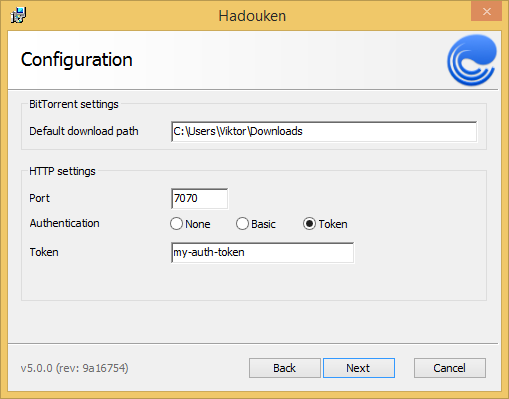
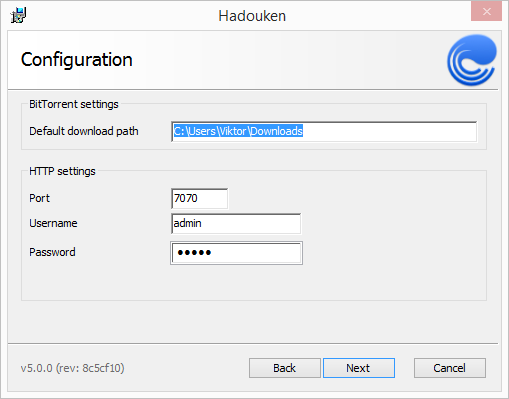
Updated documentation.

diff --git a/docs/src/configuration.rst b/docs/src/configuration.rst
@@ -5,13 +5,17 @@ Configuring Hadouken
 Overview
 --------
 
-Hadouken is configured by editing the :file:`config.json` file. JSON is a
+Hadouken is configured by editing the :file:`hadouken.json` file. JSON is a
 simple structured format and is easily hand-edited using your favourite
 text editor.
 
 See the list below for where your configuration file is.
 
-* Windows: :file:`C:/ProgramData/Hadouken/hadouken.json`
+* Windows (installed): :file:`C:/ProgramData/Hadouken/hadouken.json`
+* Windows (command line): :file:`%CWD%/hadouken.json`
+
+.. note:: Before making changes, stop Hadouken. Otherwise, Hadouken will
+          overwrite your changes.
 
 .. warning:: The configuration examples below only shows the JSON you need to
              change in order for the setting to have effect. Hadouken *will*
@@ -34,6 +38,37 @@ In depth
 
 BitTorrent configuration
 ------------------------
+
+Port
+````
+
+By default, Hadouken will use port *6881* for BitTorrent communications.
+
+.. code:: javascript
+
+   {
+     "bittorrent":
+     {
+       "listenPort": 6881
+     }
+   }
+
+
+Activating GeoIP location
+`````````````````````````
+
+GeoIP is activated by downloading and extracting the
+`MaxMind GeoLite Country database <http://geolite.maxmind.com/download/geoip/database/GeoLiteCountry/GeoIP.dat.gz>`_.
+
+.. code:: javascript
+
+   {
+     "bittorrent":
+     {
+       "geoIpFile": "C:/Data/GeoIP.dat"
+     }
+   }
+
 
 Anonymous mode
 ``````````````
@@ -83,8 +118,8 @@ Each torrent in Hadouken can be paused or removed when it reaches the
 user-specified seed goals. If no default options are specified, the seed
 goal is set to `2.0` however no action is configured.
 
-To pause a torrent when it reaches the seed goal, use the following
-configuration.
+To pause torrents when they have been seeded 200% or for 5 hours (18 000
+seconds), use the configuration below.
 
 .. note:: Only torrents added after the configuration change will get the
           new default options. Each torrent remembers its own options.
@@ -97,7 +132,8 @@ configuration.
        "defaultOptions":
        {
          "seedRatio": 2.0,
-         "seedRatioAction": "pause"
+         "seedTime": 18000,
+         "seedAction": "pause"
        }
      }
    }
@@ -143,11 +179,9 @@ HTTP configuration
 
 Authentication
 ``````````````
-Hadouken supports three modes of authentication, *none*, *HTTP Basic* and
-*Token*. The installer supports the configuration of all three modes.
 
-To activate *Token* authentication, set the `http.auth.type` setting to
-*token* and then supply a token.
+To configure your username and password, the keys *http.auth.basic.userName*
+and *http.auth.basic.password* are used.
 
 .. code:: javascript
 
@@ -156,23 +190,6 @@ To activate *Token* authentication, set the `http.auth.type` setting to
     {
       "auth":
       {
-        "type": "token",
-        "token": "YOUR-TOKEN-HERE"        
-      }
-    }
-  }
-
-To activate *HTTP Basic* authentication, set the `http.auth.type` setting to
-*basic* and then provide a username and password.
-
-.. code:: javascript
-
-  {
-    "http":
-    {
-      "auth":
-      {
-        "type": "basic",
         "basic":
         {
           "userName": "YOUR-USERNAME",
@@ -233,7 +250,8 @@ root path for the HTTP server. The default behavior is to serve requests from
 the root `/`.
 
 The example below will change this to let you serve requests from `/hadouken`,
-which means you will reach the API at `/hadouken/api`.
+which means you will reach the API at `/hadouken/api` and the GUI at
+`/hadouken/gui`.
 
 .. code:: javascript
 

diff --git a/docs/src/getting-started.rst b/docs/src/getting-started.rst
@@ -5,39 +5,11 @@ Getting started
 Overview
 --------
 
-Hadouken does not provide its own GUI. This is handled by third-party
-applications that integrate with the JSONRPC API provided by Hadouken. The
-"official" remote client for Hadouken is a web application hosted at
-remote.hdkn.net_ and is a simple HTML/JS application that relies on CORS to
-make requests to Hadouken.
+After running the installer, Hadouken can be accessed by pointing your browser
+to `http://localhost:7070/gui/index.html <http://localhost:7070/gui/index.html>`_
+and entering the username/password you specified during installation.
 
-This means that no traffic is proxied through any third-party server. Every
-request is made directly from the browser to your Hadouken instance. Neat.
+The default credentials are *admin*/*admin* however it is recommended to change
+this.
 
-
-Client configuration
---------------------
-
-For any new browser you use with remote.hdkn.net_ you must configure the client
-so it knows where your Hadouken instance is available. Click the big blue
-*Configure* button or the gears icon in the upper right corner of the
-navigation bar to get to the configuration page.
-
-Adjust the *Hadouken URL* and *Authentication type* to reflect the settings in
-your Hadouken instance. Click the *Test connection* button to test. If you
-provided valid settings, a text will notify you of the version of Hadouken it
-found.
-
-Hit *Save* and we're done configuring.
-
-
-Adding torrents
----------------
-
-To add torrents, head over to the main torrents view by clicking *Hadouken
-Remote* in the navigation bar.
-
-The blue *Add* button in the Torrents headline opens up a dialog letting you
-choose from adding files or entering a URL or magnet link.
-
-.. _remote.hdkn.net: http://remote.hdkn.net
+.. image:: static/webui_overview.png

diff --git a/docs/src/building/windows.rst b/docs/src/building/windows.rst
@@ -7,7 +7,7 @@ Overview
 This will guide you through the process of building Hadouken on Windows
 using MSVC 12 (Visual Studio 2013). Most of the dependencies are pre-built
 and will be pulled in during the build process, however *libtorrent* and
-*cpp-netlib* must be manually placed in the :file:`deps/` directory.
+*cpp-netlib* are placed in-source via Git submodules.
 
 
 Prerequisites
@@ -24,28 +24,14 @@ applications installed,
 Cloning the repository
 ----------------------
 
-Clone the Hadouken GitHub repository at https://github.com/hadouken/hadouken.
+Clone `the Hadouken GitHub repository <https://github.com/hadouken/hadouken>`_
+and initialize the submodules.
 
 .. code:: powershell
 
    C:\Code> git clone https://github.com/hadouken/hadouken
-
-
-Obtaining source dependencies
------------------------------
-
-The following source dependencies should be downloaded and extracted to the
-:file:`deps/` directory.
-
-* `libtorrent 1.0.5 <http://sourceforge.net/projects/libtorrent/files/libtorrent/libtorrent-rasterbar-1.0.5.tar.gz/download>`_
-* `cpp-netlib 0.11.1 <http://storage.googleapis.com/cpp-netlib-downloads/0.11.1/cpp-netlib-0.11.1-final.zip>`_
-
-The :file:`deps/` directory should look like this,
-
-* deps/
-
-  * libtorrent/
-  * cpp-netlib/
+   C:\Code> cd hadouken
+   C:\Code\hadouken> git submodule update --init
 
 
 Running the build

diff --git a/docs/src/index.rst b/docs/src/index.rst
@@ -28,7 +28,7 @@ Furthermore, it also runs on the following devices,
 Features
 --------
 
-* No GUI. Hadouken runs as a Windows Service/Linux daemon.
+* A powerful embedded web interface.
 * Highly configurable, a single JSON text file to configure all aspects of
   Hadouken.
 * Low memory footprint making it ideal for low-powered devices such as the
@@ -45,8 +45,8 @@ Features
 * Send push notifications to your devices via `Pushbullet <https://www.pushbullet.com>`_
   or `Pushover <https://pushover.net>`_.
 * Launch executables on various events, such as when a torrent finishes.
-* *Experimental* JavaScript extension exposing a Node-like API to enable
-  developers to write extensions in JS.
+* A powerful JavaScript API making it easy to customize and extend Hadouken
+  with plugins.
 * Unattended installations to give domain administrators the ability to set up
   Hadouken clusters with ease.
 
@@ -54,9 +54,9 @@ Features
 Downloads
 ---------
 
-Hadouken is still in beta and only Windows binaries are provided. These can be
-downloaded from `the build server <https://builds.nullreferenceexception.se/>`_.
-
+Hadouken can be downloaded from
+`the release feed <https://github.com/hadouken/hadouken/releases>`_. Binaries
+are provided for Windows. For other platforms you need to build it yourself.
 
 Installation
 ------------

diff --git a/docs/src/installing/windows.rst b/docs/src/installing/windows.rst
@@ -7,9 +7,10 @@ Overview
 
 This will guide you through the installation of Hadouken on Windows.
 
-Hadouken runs as a native Windows Service and is only accessible via the
-HTTP API it provides. No client application is bundled with the Hadouken
-installer.
+Hadouken runs as a native Windows Service and can be managed through the
+embedded web interface which is bundled with the installer. The web interface
+is accessible on *http://localhost:7070/gui/index.html* after installation (adjust
+the port accordingly).
 
 
 Getting the installer
@@ -17,16 +18,15 @@ Getting the installer
 
 We provide MSI (Windows Installer) files for Hadouken which supports both
 attended and unattended installs. The latest installer can be downloaded from
-`the build server <https://builds.nullreferenceexception.se/>`_.
+`our GitHub release feed <https://github.com/hadouken/hadouken/releases>`_.
 
 
 Installing
 ----------
 
 Follow the installation procedure and configure the basic settings as you wish.
-
-It is recommended to enable HTTP authentication since anonymous access will let
-anyone control your Hadouken instance.
+The default username/password is *admin*/*admin* and it is recommended you
+change this.
 
 .. image:: ../static/windows_installer_configuration.png
 

diff --git a/docs/src/building/ubuntu.rst b/docs/src/building/ubuntu.rst
@@ -5,8 +5,7 @@ Overview
 --------
 
 This will guide you through the process of building Hadouken on Ubuntu.
-*libtorrent* and *cpp-netlib* must be placed in the :file:`deps/` directory.
-If you run the :file:`./bootstrap.sh` script, this will be taken care of.
+The depenencies *libtorrent* and *cpp-netlib* exists as Git submodules.
 
 
 What you need
@@ -21,29 +20,20 @@ applications and libraries installed.
 * :code:`libssl-dev`
 * :code:`libboost-1.58`
 
-.. note:: Hadouken will not compile with a `g++` version lower than 4.9 since
+.. note:: Hadouken will not compile with a `GCC` version lower than 4.9 since
           that is the version which shipped with C++14 support.
 
 
 Cloning the repository
 ----------------------
 
-Clone the Hadouken GitHub repository at https://github.com/hadouken/hadouken.
+Clone `the Hadouken GitHub repository <https://github.com/hadouken/hadouken>`_.
 
 .. code:: bash
 
    $ git clone https://github.com/hadouken/hadouken
-
-
-Bootstrapping
------------------------------
-
-The repository contains a bootstrap script which will prepare your
-environment.
-
-.. code:: bash
-
-   $ ./linux/bootstrap.sh
+   $ cd hadouken
+   $ git submodule update --init
 
 
 Running the build
